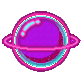
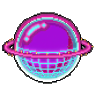
art(ch6): drop era agentic — planetas-en-construcción iter2, naves iter2, robot+rafael+drones+megaestructura+plataforma
Rafael + super robot de espaldas (pixellab v3, rotación north), enjambre de
drones agente (pixelforge), megaestructura orbital recolorada a silueta y
plataforma-mirador procedural. Planetas y naves regeneradas per §6.5.

diff --git a/scripts/build_ch6_scene_assets.py b/scripts/build_ch6_scene_assets.py
@@ -1,0 +1,122 @@
+# build_ch6_scene_assets.py — procesa los assets de la escena "era agentic" de ch6.
+# Fuentes: sprites pixellab (robot/rafael, rotación north = espaldas) + pixelforge
+# (drones, megaestructura) descargados al scratchpad de la sesión 2026-07-09.
+# Genera en public/assets:
+#   ch6-robot.png         — super robot de espaldas, trim nativo (~140px alto)
+#   ch6-rafael.png        — Rafael de espaldas, trim nativo (~48px alto)
+#   ch6-drone-a.png       — dron agente 24px (variante exploradora)
+#   ch6-drone-b.png       — dron obrero con cubo de energía 32px
+#   ch6-structures-t.png  — megaestructura orbital en construcción, silueta
+#                           oscurecida + luces neon intactas, RGBA, ÷4 nearest
+#   ch6-platform.png      — cubierta-mirador procedural 480x56, borde neon cian
+import os
+import sys
+from PIL import Image
+
+ASSETS = r"D:\timeline-portfolio\public\assets"
+# El scratchpad es por-sesión: pasarlo como argv[1] si difiere del default.
+SCRATCH = sys.argv[1] if len(sys.argv) > 1 else (
+    r"C:\Users\srpar\AppData\Local\Temp\claude\D--timeline-portfolio"
+    r"\dda63477-e69c-4834-83e8-6b559df332e0\scratchpad"
+)
+
+def trim(img, pad=1):
+    box = img.getbbox()
+    if not box:
+        return img
+    l, t, r, b = box
+    l, t = max(0, l - pad), max(0, t - pad)
+    r, b = min(img.width, r + pad), min(img.height, b + pad)
+    return img.crop((l, t, r, b))
+
+# ── 1. héroes (pixellab north) ────────────────────────────────────────────────
+robot = trim(Image.open(f"{SCRATCH}/robot-north.png").convert("RGBA"))
+robot.save(f"{ASSETS}/ch6-robot.png", optimize=True)
+
+rafael = trim(Image.open(f"{SCRATCH}/rafael-north.png").convert("RGBA"))
+rafael.save(f"{ASSETS}/ch6-rafael.png", optimize=True)
+
+# ── 2. drones ────────────────────────────────────────────────────────────────
+Image.open(f"{SCRATCH}/ch6-drone-test.png").convert("RGBA").save(
+    f"{ASSETS}/ch6-drone-a.png", optimize=True)
+Image.open(f"{SCRATCH}/ch6-drone-b.png").convert("RGBA").save(
+    f"{ASSETS}/ch6-drone-b.png", optimize=True)
+
+# ── 3. megaestructura — solidificar cuerpo (venía con alpha ~90, se veía
+#      lila lavado) y oscurecerlo a silueta violeta; luces cian/magenta a
+#      alpha pleno. Clasificación por TONO, no por saturación: el cuerpo es
+#      violeta saturado (r~130, g~15, b~195), no sirve el filtro de sat.
+DARK = (30, 20, 64)    # sombra violeta profunda
+LITE = (76, 56, 122)   # cara iluminada
+st = Image.open(f"{SCRATCH}/ch6-structures.png").convert("RGBA")
+st = trim(st)
+px = st.load()
+for y in range(st.height):
+    for x in range(st.width):
+        r, g, b, a = px[x, y]
+        if a < 25:
+            px[x, y] = (0, 0, 0, 0)
+            continue
+        if g > 130 and b > 130 and r < 150:
+            px[x, y] = (r, g, b, 255)          # luz cian
+        elif r > 190 and g < 130 and b > 140:
+            px[x, y] = (r, g, b, 255)          # luz magenta
+        else:                                   # cuerpo → silueta sólida
+            lum = (r + g + b) / 765.0
+            px[x, y] = (
+                round(DARK[0] + (LITE[0] - DARK[0]) * lum),
+                round(DARK[1] + (LITE[1] - DARK[1]) * lum),
+                round(DARK[2] + (LITE[2] - DARK[2]) * lum),
+                255,
+            )
+# ÷4 nearest — pixel art limpio, ~344px de ancho (lejanía)
+st = st.resize((st.width // 4, st.height // 4), Image.NEAREST)
+st.save(f"{ASSETS}/ch6-structures-t.png", optimize=True)
+
+# ── 4. plataforma-mirador procedural 480x56 ──────────────────────────────────
+import random
+rng = random.Random(0xA6E7)
+PW, PH = 480, 56
+RAIL_Y = 10          # y de la barandilla superior (transparente encima)
+plat = Image.new("RGBA", (PW, PH), (0, 0, 0, 0))
+pp = plat.load()
+DECK_TOP = (24, 18, 52)
+DECK_BOT = (13, 10, 32)
+CYAN = (77, 255, 255)
+MAGENTA = (255, 60, 166)
+for y in range(RAIL_Y, PH):
+    t = (y - RAIL_Y) / (PH - RAIL_Y - 1)
+    c = tuple(round(DECK_TOP[i] + (DECK_BOT[i] - DECK_TOP[i]) * t) for i in range(3))
+    for x in range(PW):
+        pp[x, y] = (*c, 255)
+# borde neon cian de la cubierta (rim light del horizonte)
+for x in range(PW):
+    pp[x, RAIL_Y] = (*CYAN, 255)
+    pp[x, RAIL_Y + 1] = (
+        (CYAN[0] + DECK_TOP[0]) // 2, (CYAN[1] + DECK_TOP[1]) // 2,
+        (CYAN[2] + DECK_TOP[2]) // 2, 255)
+# postes de barandilla finos con remate cian (por encima del deck)
+for bx in range(8, PW, 32):
+    for yy in range(0, RAIL_Y):
+        pp[bx, yy] = (46, 34, 88, 255)
+    pp[bx, 0] = (*CYAN, 255)
+# travesaño superior de la barandilla
+for x in range(PW):
+    if pp[x, 3][3] == 0:
+        pp[x, 3] = (58, 44, 104, 255)
+# juntas de paneles verticales sobre el deck
+for jx in range(0, PW, 60):
+    for yy in range(RAIL_Y + 2, PH):
+        r, g, b, a = pp[jx, yy]
+        pp[jx, yy] = (max(0, r - 8), max(0, g - 6), max(0, b - 10), a)
+# LEDs de estado magenta/cian dispersos en la cubierta
+for _ in range(26):
+    lx, ly = rng.randint(4, PW - 5), rng.randint(RAIL_Y + 6, PH - 4)
+    pp[lx, ly] = (*(CYAN if rng.random() < 0.5 else MAGENTA), 255)
+plat.save(f"{ASSETS}/ch6-platform.png", optimize=True)
+
+for f in ["ch6-robot.png", "ch6-rafael.png", "ch6-drone-a.png", "ch6-drone-b.png",
+          "ch6-structures-t.png", "ch6-platform.png"]:
+    p = f"{ASSETS}/{f}"
+    im = Image.open(p)
+    print(f, im.size, im.mode, os.path.getsize(p) // 1024, "KB")

diff --git a/public/assets/old/CHANGELOG.md b/public/assets/old/CHANGELOG.md
@@ -531,3 +531,23 @@ Aplica colectivamente a los 4 assets parallax originales de ch4 (Plan 04-04 W2).
 - **Razón del cambio:** Rafael 2026-05-28: ch3 ahora es "La muerte de Flash" y debe tener el estilo del fondo de batalla épico de ch2 (Warcraft). iter1 era fantasía pastel clara (cielo aurora + montañas + camino con estandartes) — bonito pero no matchea el tema muerte-de-Flash ni el drama de ch2.
 - **Qué se intentará diferente:** mood "secuela con amanecer HTML5" — campo de batalla DESPUÉS de la guerra: cielo crepuscular humo/brasas que abre a un amanecer HTML5 dorado/cyan en el horizonte; cresta con fortaleza en ruinas humeante; primer plano de tierra quemada con armas/estandartes caídos y escombros. Estilo comic pixel dramático (matchea ch2-flash-war). Emblemas re-tematizados al arco muerte→renacer (Flash caído → reconstrucción → estandarte → orbe → HTML5 naciente). Título "De vuelta al movimiento" → "La muerte de Flash".
 - **Commit hash post-regen:** `9c92672`
+
+---
+
+## ch6 planets (ar-vr / remoose / software-mind) — iter1 → iter2 (2026-07-09)
+
+- **Versiones guardadas:** `old/ch6-planet-ar-vr-2026-07-09-iter1.png`, `old/ch6-planet-remoose-2026-07-09-iter1.png`, `old/ch6-planet-software-mind-2026-07-09-iter1.png`
+- **Razón del cambio:** Rafael 2026-07-09: "el ch6 está feo por el arte" + mandato era agentic. iter1 eran círculos neón planos (~80px) sin narrativa.
+- **Qué se intentará diferente:** 96px, "mundos en construcción" — ar-vr: hemisferio wireframe holográfico + anillo; remoose: arcos de andamiaje orbital con luces de obra; software-mind: superficie de circuitos dorados tipo mente + halo. forge_sprite nano-banana estilo neon, references de los iter1 para paleta.
+- **Resultado:** 1 intento c/u — éxito los 3.
+- **Commit hash del cambio:** (se completa en el commit de este drop)
+
+---
+
+## ch6 ships (1 / 2) — iter1 → iter2 (2026-07-09)
+
+- **Versiones guardadas:** `old/ch6-ship-1-2026-07-09-iter1.png`, `old/ch6-ship-2-2026-07-09-iter1.png`
+- **Razón del cambio:** iter1 eran chispas de 25-27px ilegibles en pantalla (mandato era agentic 2026-07-09).
+- **Qué se intentará diferente:** 48px con siluetas legibles — ship-1 courier púrpura con estela cian; ship-2 shuttle teal con motor dorado. forge_sprite estilo neon/clean.
+- **Resultado:** ship-1 al primer intento; ship-2 necesitó 2 (iter "new" salió arcoíris ilegible, "new2" limpio con prompt de silueta simple).
+- **Commit hash del cambio:** (se completa en el commit de este drop)
